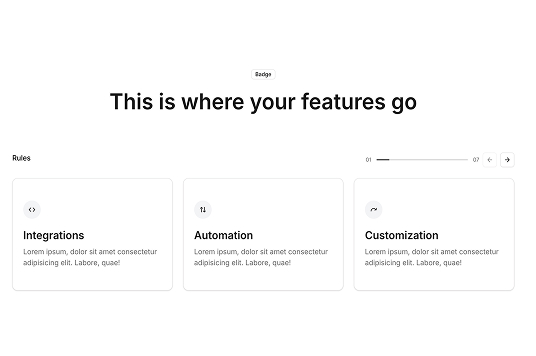
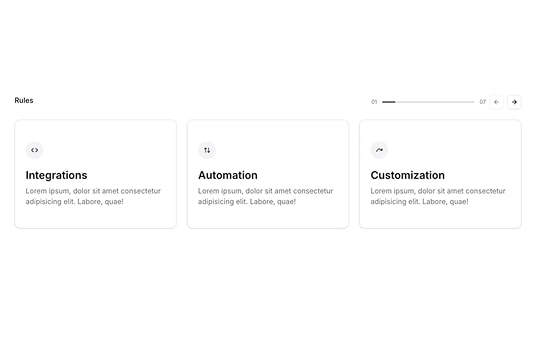
feat: extend tag

diff --git a/sanity.types.ts b/sanity.types.ts
@@ -94,8 +94,6 @@ export type Feature12Card = {
 export type Feature12 = {
   _type: "feature-12";
   padding?: SectionPadding;
-  badge?: string;
-  title?: string;
   tagline?: string;
   columns?: Array<{
     _key: string;
@@ -149,7 +147,10 @@ export type FeatureContent = {
   _type: "feature-content";
   padding?: SectionPadding;
   iconVariant?: "none" | "code" | "git-branch" | "list" | "play" | "sparkles" | "wand-sparkles" | "messages-square" | "zap" | "infinity" | "zoom-in" | "timer" | "arrow-down-to-line" | "arrow-up-down" | "redo" | "repeat" | "scaling" | "scan";
-  tagLine?: string;
+  tag?: {
+    text?: string;
+    type?: "title" | "badge";
+  };
   title?: string;
   body?: Array<{
     children?: Array<{
@@ -312,7 +313,10 @@ export type SectionHeader = {
   padding?: SectionPadding;
   sectionWidth?: "default" | "narrow";
   stackAlign?: "left" | "center";
-  tagLine?: string;
+  tag?: {
+    text?: string;
+    type?: "title" | "badge";
+  };
   title?: string;
   description?: string;
 };
@@ -749,7 +753,7 @@ export type NAVIGATION_QUERYResult = Array<{
 
 // Source: ./sanity/queries/page.ts
 // Variable: PAGE_QUERY
-// Query: *[_type == "page" && slug.current == $slug][0]{    blocks[]{        _type == "section-header" => {    _type,    _key,    padding,    sectionWidth,    stackAlign,    tagLine,    title,    description,  },        _type == "hero-12" => {    _type,    _key,    tagLine,    title,    body[]{      ...,      _type == "image" => {        ...,        asset->{          _id,          url,          mimeType,          metadata {            lqip,            dimensions {              width,              height            }          }        }      }    },    image{      asset->{        _id,        url,        mimeType,        metadata {          lqip,          dimensions {            width,            height          }        }      },      alt    },    links[]{      _key,      title,      href,      target,      buttonVariant    },    techLogos[]{      _key,      title,      link,      image{        asset->{          _id,          url,          mimeType,          metadata {            lqip,            dimensions {              width,              height            }          }        },        alt      }    }  },        _type == "faq-1" => {    _type,    _key,    padding,    border,    faqs[]->{      _id,      title,      body[]{        ...,        _type == "image" => {          ...,          asset->{            _id,            url,            mimeType,            metadata {              lqip,              dimensions {                width,                height              }            }          }        }      },    },  },        _type == "logos-1" => {    _type,    _key,    padding,    title,    images[]{      ...,      asset->{        _id,        url,        mimeType,        metadata {          lqip,          dimensions {            width,            height          }        }      },      alt    },  },        _type == "feature-1" => {    _type,    _key,    padding,    columns[]{        _type == "feature-content" => {    _type,    _key,    padding,    iconVariant,    tagLine,    title,    body[]{      ...,      _type == "image" => {        ...,        asset->{          _id,          url,          mimeType,          metadata {            lqip,            dimensions {              width,              height            }          }        }      }    },    links,  },        _type == "feature-image" => {    _type,    _key,    image{      asset->{        _id,        url,        mimeType,        metadata {          lqip,          dimensions {            width,            height          }        }      },      alt    },  },    },  },        _type == "feature-3" => {    _type,    _key,    padding,    columns[]{        _type == "feature-3-card" => {    _type,    _key,    iconVariant,    title,    description,    image{      asset->{        _id,        url,        mimeType,        metadata {          lqip,          dimensions {            width,            height          }        }      },      alt    }  },    },  },        _type == "feature-12" => {    _type,    _key,    padding,    badge,    title,    tagline,    columns[]{        _type == "feature-12-card" => {    _type,    _key,    iconVariant,    title,    description,  },    },  },        _type == "feature-15" => {    _type,    _key,    padding,    gridColumns,    columns[]{        _type == "feature-15-card" => {    _type,    _key,    iconVariant,    title,    description,  },    },  },    },    meta_title,    meta_description,    noindex,    ogImage {      asset->{        _id,        url,        metadata {          dimensions {            width,            height          }        }      },    }  }
+// Query: *[_type == "page" && slug.current == $slug][0]{    blocks[]{        _type == "section-header" => {    _type,    _key,    padding,    sectionWidth,    stackAlign,    tag,    title,    description,  },        _type == "hero-12" => {    _type,    _key,    tagLine,    title,    body[]{      ...,      _type == "image" => {        ...,        asset->{          _id,          url,          mimeType,          metadata {            lqip,            dimensions {              width,              height            }          }        }      }    },    image{      asset->{        _id,        url,        mimeType,        metadata {          lqip,          dimensions {            width,            height          }        }      },      alt    },    links[]{      _key,      title,      href,      target,      buttonVariant    },    techLogos[]{      _key,      title,      link,      image{        asset->{          _id,          url,          mimeType,          metadata {            lqip,            dimensions {              width,              height            }          }        },        alt      }    }  },        _type == "faq-1" => {    _type,    _key,    padding,    border,    faqs[]->{      _id,      title,      body[]{        ...,        _type == "image" => {          ...,          asset->{            _id,            url,            mimeType,            metadata {              lqip,              dimensions {                width,                height              }            }          }        }      },    },  },        _type == "logos-1" => {    _type,    _key,    padding,    title,    images[]{      ...,      asset->{        _id,        url,        mimeType,        metadata {          lqip,          dimensions {            width,            height          }        }      },      alt    },  },        _type == "feature-1" => {    _type,    _key,    padding,    columns[]{        _type == "feature-content" => {    _type,    _key,    padding,    iconVariant,    tag,    title,    body[]{      ...,      _type == "image" => {        ...,        asset->{          _id,          url,          mimeType,          metadata {            lqip,            dimensions {              width,              height            }          }        }      }    },    links,  },        _type == "feature-image" => {    _type,    _key,    image{      asset->{        _id,        url,        mimeType,        metadata {          lqip,          dimensions {            width,            height          }        }      },      alt    },  },    },  },        _type == "feature-3" => {    _type,    _key,    padding,    columns[]{        _type == "feature-3-card" => {    _type,    _key,    iconVariant,    title,    description,    image{      asset->{        _id,        url,        mimeType,        metadata {          lqip,          dimensions {            width,            height          }        }      },      alt    }  },    },  },        _type == "feature-12" => {    _type,    _key,    padding,    tagline,    columns[]{        _type == "feature-12-card" => {    _type,    _key,    iconVariant,    title,    description,  },    },  },        _type == "feature-15" => {    _type,    _key,    padding,    gridColumns,    columns[]{        _type == "feature-15-card" => {    _type,    _key,    iconVariant,    title,    description,  },    },  },    },    meta_title,    meta_description,    noindex,    ogImage {      asset->{        _id,        url,        metadata {          dimensions {            width,            height          }        }      },    }  }
 export type PAGE_QUERYResult = {
   blocks: Array<{
     _type: "faq-1";
@@ -816,7 +820,10 @@ export type PAGE_QUERYResult = {
       _key: string;
       padding: SectionPadding | null;
       iconVariant: "arrow-down-to-line" | "arrow-up-down" | "code" | "git-branch" | "infinity" | "list" | "messages-square" | "none" | "play" | "redo" | "repeat" | "scaling" | "scan" | "sparkles" | "timer" | "wand-sparkles" | "zap" | "zoom-in" | null;
-      tagLine: string | null;
+      tag: {
+        text?: string;
+        type?: "badge" | "title";
+      } | null;
       title: string | null;
       body: Array<{
         children?: Array<{
@@ -891,8 +898,6 @@ export type PAGE_QUERYResult = {
     _type: "feature-12";
     _key: string;
     padding: SectionPadding | null;
-    badge: string | null;
-    title: string | null;
     tagline: string | null;
     columns: Array<{
       _type: "feature-12-card";
@@ -1063,7 +1068,10 @@ export type PAGE_QUERYResult = {
     padding: SectionPadding | null;
     sectionWidth: "default" | "narrow" | null;
     stackAlign: "center" | "left" | null;
-    tagLine: string | null;
+    tag: {
+      text?: string;
+      type?: "badge" | "title";
+    } | null;
     title: string | null;
     description: string | null;
   }> | null;
@@ -1269,7 +1277,7 @@ declare module "@sanity/client" {
     "\n    *[_type == 'post'] | order(_updatedAt desc) {\n      'url': $baseUrl + '/blog/' + slug.current,\n      'lastModified': _updatedAt,\n      'changeFrequency': 'weekly',\n      'priority': 0.7\n    }\n  ": PostsQueryResult;
     "*[_type == \"contact\"][0]{\n  tagline,\n  title,\n  description,\n  contactMethods[]{\n    icon,\n    title,\n    description,\n    link\n  },\n  meta_title,\n  meta_description,\n  noindex,\n  ogImage {\n    asset->{\n      _id,\n      url,\n      metadata {\n        dimensions {\n          width,\n          height\n        }\n      }\n    },\n  }\n}": CONTACT_QUERYResult;
     "\n  *[_type == \"navigation\"]{\n    _type,\n    _key,\n    title,\n    links\n  }\n": NAVIGATION_QUERYResult;
-    "\n  *[_type == \"page\" && slug.current == $slug][0]{\n    blocks[]{\n      \n  _type == \"section-header\" => {\n    _type,\n    _key,\n    padding,\n    sectionWidth,\n    stackAlign,\n    tagLine,\n    title,\n    description,\n  }\n,\n      \n  _type == \"hero-12\" => {\n    _type,\n    _key,\n    tagLine,\n    title,\n    body[]{\n      ...,\n      _type == \"image\" => {\n        ...,\n        asset->{\n          _id,\n          url,\n          mimeType,\n          metadata {\n            lqip,\n            dimensions {\n              width,\n              height\n            }\n          }\n        }\n      }\n    },\n    image{\n      asset->{\n        _id,\n        url,\n        mimeType,\n        metadata {\n          lqip,\n          dimensions {\n            width,\n            height\n          }\n        }\n      },\n      alt\n    },\n    links[]{\n      _key,\n      title,\n      href,\n      target,\n      buttonVariant\n    },\n    techLogos[]{\n      _key,\n      title,\n      link,\n      image{\n        asset->{\n          _id,\n          url,\n          mimeType,\n          metadata {\n            lqip,\n            dimensions {\n              width,\n              height\n            }\n          }\n        },\n        alt\n      }\n    }\n  }\n,\n      \n  _type == \"faq-1\" => {\n    _type,\n    _key,\n    padding,\n    border,\n    faqs[]->{\n      _id,\n      title,\n      body[]{\n        ...,\n        _type == \"image\" => {\n          ...,\n          asset->{\n            _id,\n            url,\n            mimeType,\n            metadata {\n              lqip,\n              dimensions {\n                width,\n                height\n              }\n            }\n          }\n        }\n      },\n    },\n  }\n,\n      \n  _type == \"logos-1\" => {\n    _type,\n    _key,\n    padding,\n    title,\n    images[]{\n      ...,\n      asset->{\n        _id,\n        url,\n        mimeType,\n        metadata {\n          lqip,\n          dimensions {\n            width,\n            height\n          }\n        }\n      },\n      alt\n    },\n  }\n,\n      \n  _type == \"feature-1\" => {\n    _type,\n    _key,\n    padding,\n    columns[]{\n      \n  _type == \"feature-content\" => {\n    _type,\n    _key,\n    padding,\n    iconVariant,\n    tagLine,\n    title,\n    body[]{\n      ...,\n      _type == \"image\" => {\n        ...,\n        asset->{\n          _id,\n          url,\n          mimeType,\n          metadata {\n            lqip,\n            dimensions {\n              width,\n              height\n            }\n          }\n        }\n      }\n    },\n    links,\n  }\n,\n      \n  _type == \"feature-image\" => {\n    _type,\n    _key,\n    image{\n      asset->{\n        _id,\n        url,\n        mimeType,\n        metadata {\n          lqip,\n          dimensions {\n            width,\n            height\n          }\n        }\n      },\n      alt\n    },\n  }\n,\n    },\n  }\n,\n      \n  _type == \"feature-3\" => {\n    _type,\n    _key,\n    padding,\n    columns[]{\n      \n  _type == \"feature-3-card\" => {\n    _type,\n    _key,\n    iconVariant,\n    title,\n    description,\n    image{\n      asset->{\n        _id,\n        url,\n        mimeType,\n        metadata {\n          lqip,\n          dimensions {\n            width,\n            height\n          }\n        }\n      },\n      alt\n    }\n  }\n,\n    },\n  }\n,\n      \n  _type == \"feature-12\" => {\n    _type,\n    _key,\n    padding,\n    badge,\n    title,\n    tagline,\n    columns[]{\n      \n  _type == \"feature-12-card\" => {\n    _type,\n    _key,\n    iconVariant,\n    title,\n    description,\n  }\n,\n    },\n  }\n,\n      \n  _type == \"feature-15\" => {\n    _type,\n    _key,\n    padding,\n    gridColumns,\n    columns[]{\n      \n  _type == \"feature-15-card\" => {\n    _type,\n    _key,\n    iconVariant,\n    title,\n    description,\n  }\n,\n    },\n  }\n,\n    },\n    meta_title,\n    meta_description,\n    noindex,\n    ogImage {\n      asset->{\n        _id,\n        url,\n        metadata {\n          dimensions {\n            width,\n            height\n          }\n        }\n      },\n    }\n  }\n": PAGE_QUERYResult;
+    "\n  *[_type == \"page\" && slug.current == $slug][0]{\n    blocks[]{\n      \n  _type == \"section-header\" => {\n    _type,\n    _key,\n    padding,\n    sectionWidth,\n    stackAlign,\n    tag,\n    title,\n    description,\n  }\n,\n      \n  _type == \"hero-12\" => {\n    _type,\n    _key,\n    tagLine,\n    title,\n    body[]{\n      ...,\n      _type == \"image\" => {\n        ...,\n        asset->{\n          _id,\n          url,\n          mimeType,\n          metadata {\n            lqip,\n            dimensions {\n              width,\n              height\n            }\n          }\n        }\n      }\n    },\n    image{\n      asset->{\n        _id,\n        url,\n        mimeType,\n        metadata {\n          lqip,\n          dimensions {\n            width,\n            height\n          }\n        }\n      },\n      alt\n    },\n    links[]{\n      _key,\n      title,\n      href,\n      target,\n      buttonVariant\n    },\n    techLogos[]{\n      _key,\n      title,\n      link,\n      image{\n        asset->{\n          _id,\n          url,\n          mimeType,\n          metadata {\n            lqip,\n            dimensions {\n              width,\n              height\n            }\n          }\n        },\n        alt\n      }\n    }\n  }\n,\n      \n  _type == \"faq-1\" => {\n    _type,\n    _key,\n    padding,\n    border,\n    faqs[]->{\n      _id,\n      title,\n      body[]{\n        ...,\n        _type == \"image\" => {\n          ...,\n          asset->{\n            _id,\n            url,\n            mimeType,\n            metadata {\n              lqip,\n              dimensions {\n                width,\n                height\n              }\n            }\n          }\n        }\n      },\n    },\n  }\n,\n      \n  _type == \"logos-1\" => {\n    _type,\n    _key,\n    padding,\n    title,\n    images[]{\n      ...,\n      asset->{\n        _id,\n        url,\n        mimeType,\n        metadata {\n          lqip,\n          dimensions {\n            width,\n            height\n          }\n        }\n      },\n      alt\n    },\n  }\n,\n      \n  _type == \"feature-1\" => {\n    _type,\n    _key,\n    padding,\n    columns[]{\n      \n  _type == \"feature-content\" => {\n    _type,\n    _key,\n    padding,\n    iconVariant,\n    tag,\n    title,\n    body[]{\n      ...,\n      _type == \"image\" => {\n        ...,\n        asset->{\n          _id,\n          url,\n          mimeType,\n          metadata {\n            lqip,\n            dimensions {\n              width,\n              height\n            }\n          }\n        }\n      }\n    },\n    links,\n  }\n,\n      \n  _type == \"feature-image\" => {\n    _type,\n    _key,\n    image{\n      asset->{\n        _id,\n        url,\n        mimeType,\n        metadata {\n          lqip,\n          dimensions {\n            width,\n            height\n          }\n        }\n      },\n      alt\n    },\n  }\n,\n    },\n  }\n,\n      \n  _type == \"feature-3\" => {\n    _type,\n    _key,\n    padding,\n    columns[]{\n      \n  _type == \"feature-3-card\" => {\n    _type,\n    _key,\n    iconVariant,\n    title,\n    description,\n    image{\n      asset->{\n        _id,\n        url,\n        mimeType,\n        metadata {\n          lqip,\n          dimensions {\n            width,\n            height\n          }\n        }\n      },\n      alt\n    }\n  }\n,\n    },\n  }\n,\n      \n  _type == \"feature-12\" => {\n    _type,\n    _key,\n    padding,\n    tagline,\n    columns[]{\n      \n  _type == \"feature-12-card\" => {\n    _type,\n    _key,\n    iconVariant,\n    title,\n    description,\n  }\n,\n    },\n  }\n,\n      \n  _type == \"feature-15\" => {\n    _type,\n    _key,\n    padding,\n    gridColumns,\n    columns[]{\n      \n  _type == \"feature-15-card\" => {\n    _type,\n    _key,\n    iconVariant,\n    title,\n    description,\n  }\n,\n    },\n  }\n,\n    },\n    meta_title,\n    meta_description,\n    noindex,\n    ogImage {\n      asset->{\n        _id,\n        url,\n        metadata {\n          dimensions {\n            width,\n            height\n          }\n        }\n      },\n    }\n  }\n": PAGE_QUERYResult;
     "*[_type == \"page\" && defined(slug)]{slug}": PAGES_SLUGS_QUERYResult;
     "*[_type == \"post\" && slug.current == $slug][0]{\n    title,\n    slug,\n    image{\n      ...,\n      asset->{\n        _id,\n        url,\n        mimeType,\n        metadata {\n          lqip,\n          dimensions {\n            width,\n            height\n          }\n        }\n      },\n      alt\n    },\n    body[]{\n      ...,\n      _type == \"image\" => {\n        ...,\n        asset->{\n          _id,\n          url,\n          mimeType,\n          metadata {\n            lqip,\n            dimensions {\n              width,\n              height\n            }\n          }\n        }\n      }\n    },\n    author->{\n      name,\n      image {\n        ...,\n        asset->{\n          _id,\n          url,\n          mimeType,\n          metadata {\n            lqip,\n            dimensions {\n              width,\n              height\n            }\n          }\n        },\n        alt\n      }\n    },\n    _createdAt,\n    _updatedAt,\n    meta_title,\n    meta_description,\n    noindex,\n    ogImage {\n      asset->{\n        _id,\n        url,\n        metadata {\n          dimensions {\n            width,\n            height\n          }\n        }\n      },\n    }\n}": POST_QUERYResult;
     "*[_type == \"post\" && defined(slug)] | order(_createdAt desc){\n    title,\n    slug,\n    excerpt,\n    image{\n      ...,\n      asset->{\n        _id,\n        url,\n        mimeType,\n        metadata {\n          lqip,\n          dimensions {\n            width,\n            height\n          }\n        }\n      },\n      alt\n    },\n    categories[]->{\n      _id,\n      title,\n    },\n}": POSTS_QUERYResult;

diff --git a/components/blocks/feature/feature12/index.tsx b/components/blocks/feature/feature12/index.tsx
@@ -4,7 +4,6 @@ import SectionContainer from "@/components/ui/section-container";
 import { PAGE_QUERYResult } from "@/sanity.types";
 import Icon from "@/components/icon";
 
-import { Badge } from "@/components/ui/badge";
 import { Card, CardContent } from "@/components/ui/card";
 import {
   type CarouselApi,
@@ -19,13 +18,7 @@ import { Progress } from "@/components/ui/progress";
 type Block = NonNullable<NonNullable<PAGE_QUERYResult>["blocks"]>[number];
 type Feature12 = Extract<Block, { _type: "feature-12" }>;
 
-export default function Feature12({
-  padding,
-  badge,
-  title,
-  tagline,
-  columns,
-}: Feature12) {
+export default function Feature12({ padding, tagline, columns }: Feature12) {
   const [api, setApi] = useState<CarouselApi>();
   const [progress, setProgress] = useState(
     Math.floor(100 / (columns?.length || 0))
@@ -46,15 +39,9 @@ export default function Feature12({
   return (
     <SectionContainer padding={padding}>
       <div className="container max-w-7xl">
-        <div className="mb-10 flex flex-col items-center gap-6 md:mb-20">
-          <Badge variant="outline">{badge}</Badge>
-          <h2 className="mb-2 text-center text-3xl font-semibold lg:text-5xl">
-            {title}
-          </h2>
-        </div>
         <Carousel className="w-full" setApi={setApi}>
           <div className="mb-4 flex justify-between px-1 md:mb-5">
-            <p className="font-medium">Rules</p>
+            {tagline && <p className="font-medium">{tagline}</p>}
             <div className="flex items-center space-x-2">
               <div className="mr-2 hidden items-center gap-3 text-xs text-muted-foreground md:flex">
                 <span>01</span>

diff --git a/components/blocks/feature/feature1/feature-content.tsx b/components/blocks/feature/feature1/feature-content.tsx
@@ -2,7 +2,7 @@ import { cn } from "@/lib/utils";
 import PortableTextRenderer from "@/components/portable-text-renderer";
 import { Button } from "@/components/ui/button";
 import Link from "next/link";
-import TagLine from "@/components/ui/tag-line";
+import Tag from "@/components/ui/tag";
 import Icon from "@/components/icon";
 import { createElement } from "react";
 import { PAGE_QUERYResult } from "@/sanity.types";
@@ -17,7 +17,7 @@ type FeatureContent = Extract<
 export default function FeatureContent({
   padding,
   iconVariant,
-  tagLine,
+  tag,
   title,
   body,
   links,
@@ -35,10 +35,17 @@ export default function FeatureContent({
             <Icon iconVariant={iconVariant} strokeWidth={2} />
           </span>
         )}
-        {tagLine && <TagLine title={tagLine} element="h2" className="mb-6" />}
+        {tag && tag.text && (
+          <Tag
+            title={tag.text || ""}
+            type={tag.type as "title" | "badge"}
+            element="h2"
+            className="mb-6"
+          />
+        )}
         {title &&
           createElement(
-            tagLine ? "h3" : "h2",
+            tag?.text ? "h3" : "h2",
             {
               className: cn("mb-6 text-3xl font-bold text-pretty lg:text-4xl"),
             },

diff --git a/components/blocks/section-header.tsx b/components/blocks/section-header.tsx
@@ -1,6 +1,6 @@
 import { cn } from "@/lib/utils";
 import SectionContainer from "@/components/ui/section-container";
-import TagLine from "@/components/ui/tag-line";
+import Tag from "@/components/ui/tag";
 import { stegaClean } from "next-sanity";
 
 import { PAGE_QUERYResult } from "@/sanity.types";
@@ -14,7 +14,7 @@ export default function SectionHeader({
   padding,
   sectionWidth = "default",
   stackAlign = "left",
-  tagLine,
+  tag,
   title,
   description,
 }: SectionHeaderProps) {
@@ -30,7 +30,14 @@ export default function SectionHeader({
         )}
       >
         <div>
-          {tagLine && <TagLine title={tagLine} element="p" className="mb-4" />}
+          {tag && tag.text && (
+            <Tag
+              title={tag.text || ""}
+              type={tag.type as "title" | "badge"}
+              element="p"
+              className="mb-4"
+            />
+          )}
           {title && <h2 className="text-3xl md:text-4xl mb-4">{title}</h2>}
         </div>
         {description && <p className="text-muted-foreground">{description}</p>}

diff --git a/components/ui/tag.tsx b/components/ui/tag.tsx
@@ -1,12 +1,15 @@
 import { cn } from "@/lib/utils";
+import { Badge } from "@/components/ui/badge";
 
-export default function TagLine({
+export default function Tag({
   title,
+  type = "title",
   element = "div",
   className,
   large = false,
 }: {
   title: string;
+  type?: "title" | "badge";
   element?: "div" | "h1" | "h2" | "h3" | "p";
   className?: string;
   large?: boolean;
@@ -16,12 +19,16 @@ export default function TagLine({
   return (
     <TagElement
       className={cn(
-        "inline-block leading-[0] text-muted-foreground",
+        "inline-block leading-[0] text-muted-foreground font-normal",
         className,
         large ? "text-lg" : "text-sm"
       )}
     >
-      <span>{title}</span>
+      {type === "title" ? (
+        <span>{title}</span>
+      ) : (
+        <Badge variant="outline">{title}</Badge>
+      )}
     </TagElement>
   );
 }

diff --git a/sanity/schemas/blocks/feature/feature12/index.ts b/sanity/schemas/blocks/feature/feature12/index.ts
@@ -13,16 +13,6 @@ export default defineType({
       type: "section-padding",
     }),
     defineField({
-      name: "badge",
-      type: "string",
-      title: "Badge",
-    }),
-    defineField({
-      name: "title",
-      type: "string",
-      title: "Title",
-    }),
-    defineField({
       name: "tagline",
       type: "string",
       title: "Tagline",
@@ -35,7 +25,7 @@ export default defineType({
   ],
   preview: {
     select: {
-      title: "title",
+      title: "columns.0.title",
     },
     prepare({ title }) {
       return {

diff --git a/sanity/schemas/blocks/feature/feature1/feature-content.ts b/sanity/schemas/blocks/feature/feature1/feature-content.ts
@@ -23,8 +23,22 @@ export default defineType({
       initialValue: "none",
     }),
     defineField({
-      name: "tagLine",
-      type: "string",
+      name: "tag",
+      type: "object",
+      fields: [
+        defineField({
+          name: "text",
+          type: "string",
+        }),
+        defineField({
+          name: "type",
+          type: "string",
+          options: {
+            list: ["title", "badge"],
+          },
+          initialValue: "title",
+        }),
+      ],
     }),
     defineField({
       name: "title",

diff --git a/sanity/schemas/blocks/section-header.ts b/sanity/schemas/blocks/section-header.ts
@@ -34,8 +34,22 @@ export default defineType({
       initialValue: "left",
     }),
     defineField({
-      name: "tagLine",
-      type: "string",
+      name: "tag",
+      type: "object",
+      fields: [
+        defineField({
+          name: "text",
+          type: "string",
+        }),
+        defineField({
+          name: "type",
+          type: "string",
+          options: {
+            list: ["title", "badge"],
+          },
+          initialValue: "title",
+        }),
+      ],
     }),
     defineField({
       name: "title",

diff --git a/sanity/queries/feature/feature12/index.ts b/sanity/queries/feature/feature12/index.ts
@@ -7,8 +7,6 @@ export const feature12Query = groq`
     _type,
     _key,
     padding,
-    badge,
-    title,
     tagline,
     columns[]{
       ${feature12CardQuery},

diff --git a/sanity/queries/section-header.ts b/sanity/queries/section-header.ts
@@ -8,7 +8,7 @@ export const sectionHeaderQuery = groq`
     padding,
     sectionWidth,
     stackAlign,
-    tagLine,
+    tag,
     title,
     description,
   }

diff --git a/sanity/queries/feature/feature1/feature-content.ts b/sanity/queries/feature/feature1/feature-content.ts
@@ -7,7 +7,7 @@ export const featureContentQuery = groq`
     _key,
     padding,
     iconVariant,
-    tagLine,
+    tag,
     title,
     body[]{
       ...,
